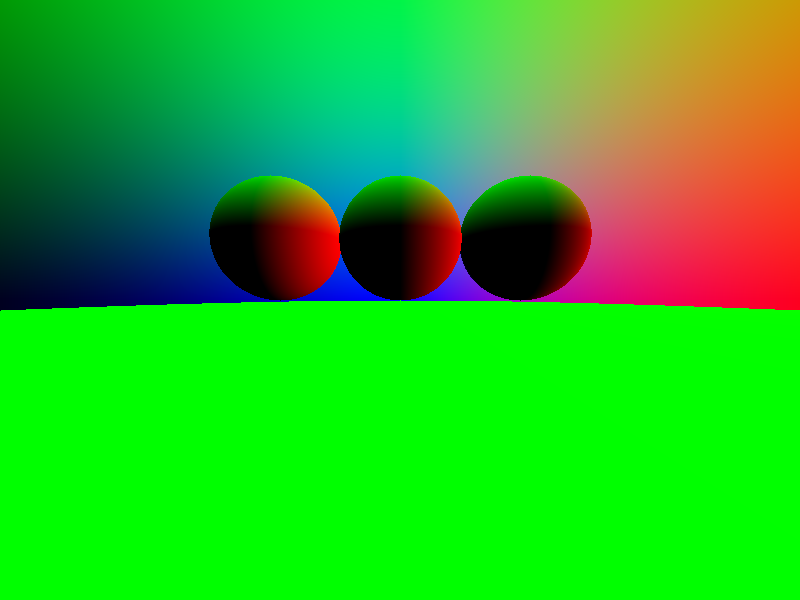
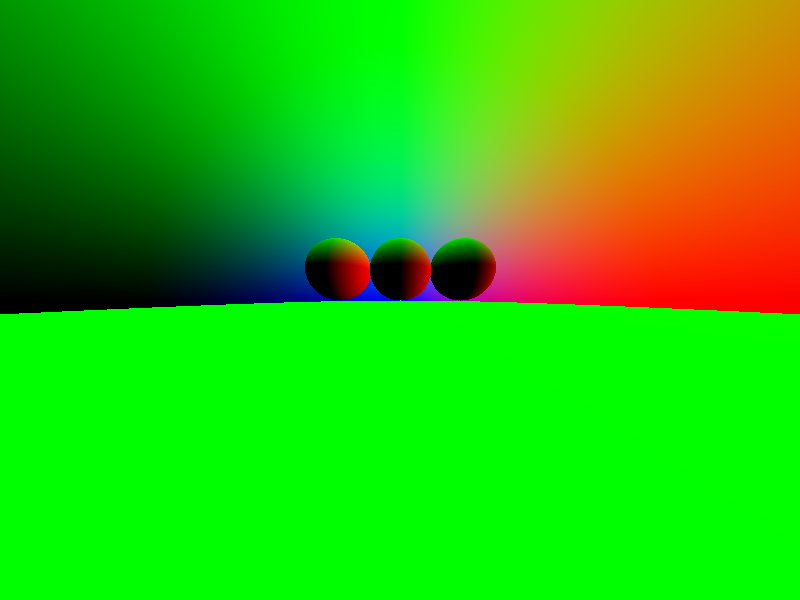
Redo rendering code

diff --git a/raytrace.c b/raytrace.c
@@ -1,5 +1,6 @@
 #include <math.h>
 #include <stdio.h>
+#include <stdlib.h>
 
 /* Types */
 typedef float sc; // scalar
@@ -22,6 +23,8 @@ typedef struct { sphere *spheres; int nn; } world;
 typedef struct { vec start; vec dir; } ray; // dir is normalized!
 
 /* Ray-tracing */
+
+static sc random_double() { return rand() / (RAND_MAX + 1.0); } // [0, 1)
 
 static bool find_nearest_intersection(ray rr, sphere ss, sc *intersection) {
   vec center_rel = sub(rr.start, ss.cp);
@@ -81,17 +84,25 @@ encode_color(color co)
 
 /* Rendering */
 
+
 static ray get_ray(int w, int h, int x, int y) {
   // Camera is always at 0,0
   sc aspect = ((sc)w)/h; // Assume aspect >= 1
   sc viewport_height = 2.0;
-  sc focal_length = 0.5;
+  sc focal_length = 0.5; // Z distance of viewport
   sc viewport_width = viewport_height * aspect;
 
-  //sc pixel_width = (w / viewport_width);
-  //sc pixel_height = (h / viewport_height);
+  sc pixel_width = (viewport_width / w);
+  sc pixel_height = (viewport_height / h);
+  sc left = viewport_width / -2.0;
+  sc top = viewport_height / 2.0;
 
-  vec pv = { ((double)x/w - 0.5)*(viewport_width / 2.0), (0.5 - (double)y/h)*(viewport_height / 2.0), focal_length };
+  sc px = left + (pixel_width * x) /*-0.5 + random_double()*/;
+  sc py = top - (pixel_height * y) /*-0.5 + random_double()*/;
+
+  //fprintf(stderr, "%lf px %lf py %lf z\n", px, py, focal_length);
+
+  vec pv = { px, py, focal_length };
   ray rr = { {0}, normalize(pv) };
 
   return rr;
